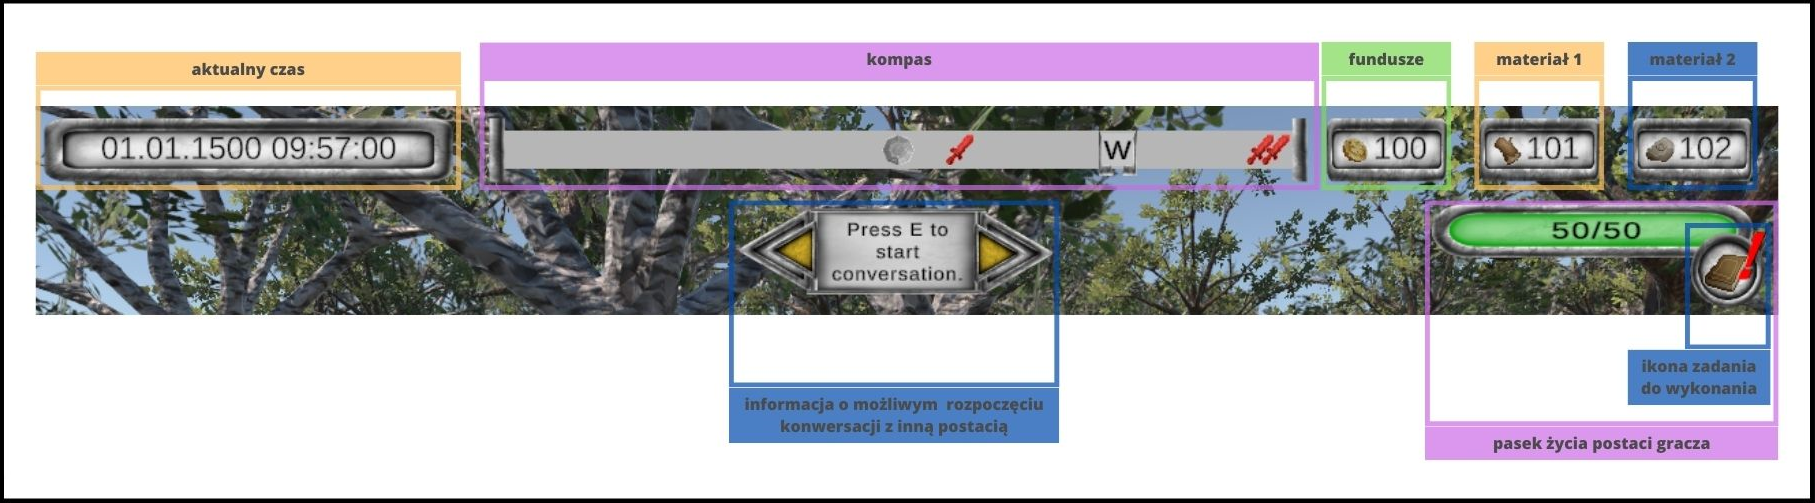
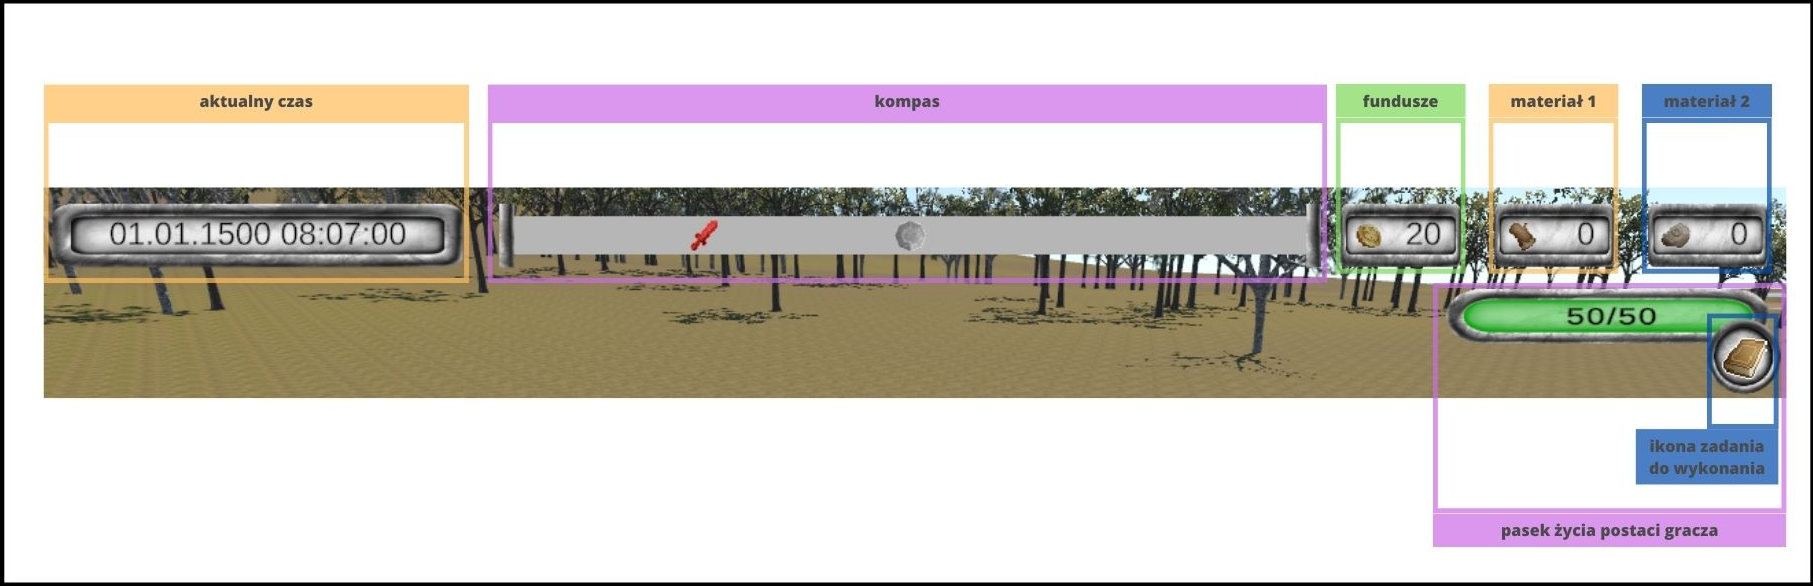
rewriting imp_ui: base interface

diff --git a/docs/chapters/implementacja/ui_imp.tex b/docs/chapters/implementacja/ui_imp.tex
@@ -11,11 +11,11 @@ jak najmniej miejsca, jednocześnie podając jak najwięcej przydatnych informac
 Interfejs podstawowy towarzyszy graczowi podczas całej rozgrywki. Skupia się on w górnej części ekranu. Jego zadaniem jest pomoc 
 użytkownikowi w ogólnym odnalezieniu się w świecie. W tym celu są mu ukazane następujące informacje:
 \begin{itemize}
-    \item stan surowców i funduszy, aby nie był obarczony kalkulacjami przy każdym zakupie lub przypływie zasobów;
     \item godzina w grze, aby stworzyć iluzję upływającego czasu w świecie gry;
     \item położenie gracza względem stron świata oraz wrogów ukazane na kompasie, aby ułatwić nawigację;
-    \item etap, na którym są przypisane graczowi zadania, aby przypomnieć mu, że na takowe się zgodził;
-    \item stan zdrowia gracza, aby zasygnalizować mu, czy przypadkiem nie rozsądniejsze będzie wycofanie się z potyczki.
+    \item stan surowców i funduszy, aby nie był obarczony kalkulacjami przy każdym zakupie lub przypływie zasobów;
+    \item stan zdrowia gracza, aby zasygnalizować mu, czy przypadkiem nie rozsądniejsze będzie wycofanie się z potyczki;
+    \item etap, na którym są przypisane graczowi zadania, aby przypomnieć mu, że na takowe się zgodził.
 \end{itemize}
 
 \begin{figure}[htbp]
@@ -26,6 +26,18 @@ użytkownikowi w ogólnym odnalezieniu się w świecie. W tym celu są mu ukazan
     }\label{fig:compass}
 \end{figure}
 
+W tych statycznie umiejscowionych elementach interfejsu dynamicznie zmienia się ich treść. Na zegarze czas zmienia się w ustalony sposób,
+dodając minutę w grze co 5 sekund upływające w realnym świecie. Na kompasie umiejscowienie zmieniają symbole stron świata i wskaźniki przeciwników,
+zależnie od ich pozycji, położenia gracza i strony, w którą patrzy. Fundusze rosną po wykonaniu zadania i otrzymaniu zapłaty oraz maleją, gdy opłacam
+najemników, czy płacimy za budowle. Liczba posiadanych surowców i zwiększa się, po zebraniu ich z ziemi, za to zmniejsza, gdy za ich pomocą budujemy budynek.  
+Pasek zdrowia zmienia swoją treść, gdy dostaniemy obrażenia, jednocześnie ukazując początkową, maksymalną wartość. Ikona zadania do wykonania ukazuje symbol 
+czerwonego wykrzyknika, gdy gracz ma jakieś aktywne, nieskończone zadanie, co ukazano na rysunku \ref{fig:wyq}.
+\begin{figure}[htbp]
+    \centering
+    \includegraphics[width=0.5\textwidth]{images/ui/wykrzyknik_quest.png}
+    \caption{
+    }\label{fig:wyq}
+\end{figure}
 
 \subsection{Menu stawiania budynków}
 Typowa mechanika gier typu RTS, czyli budowanie budynków ma specjalnie przygotowany interfejs, wyświetlany po wciśnięciu klawisza "B". 
